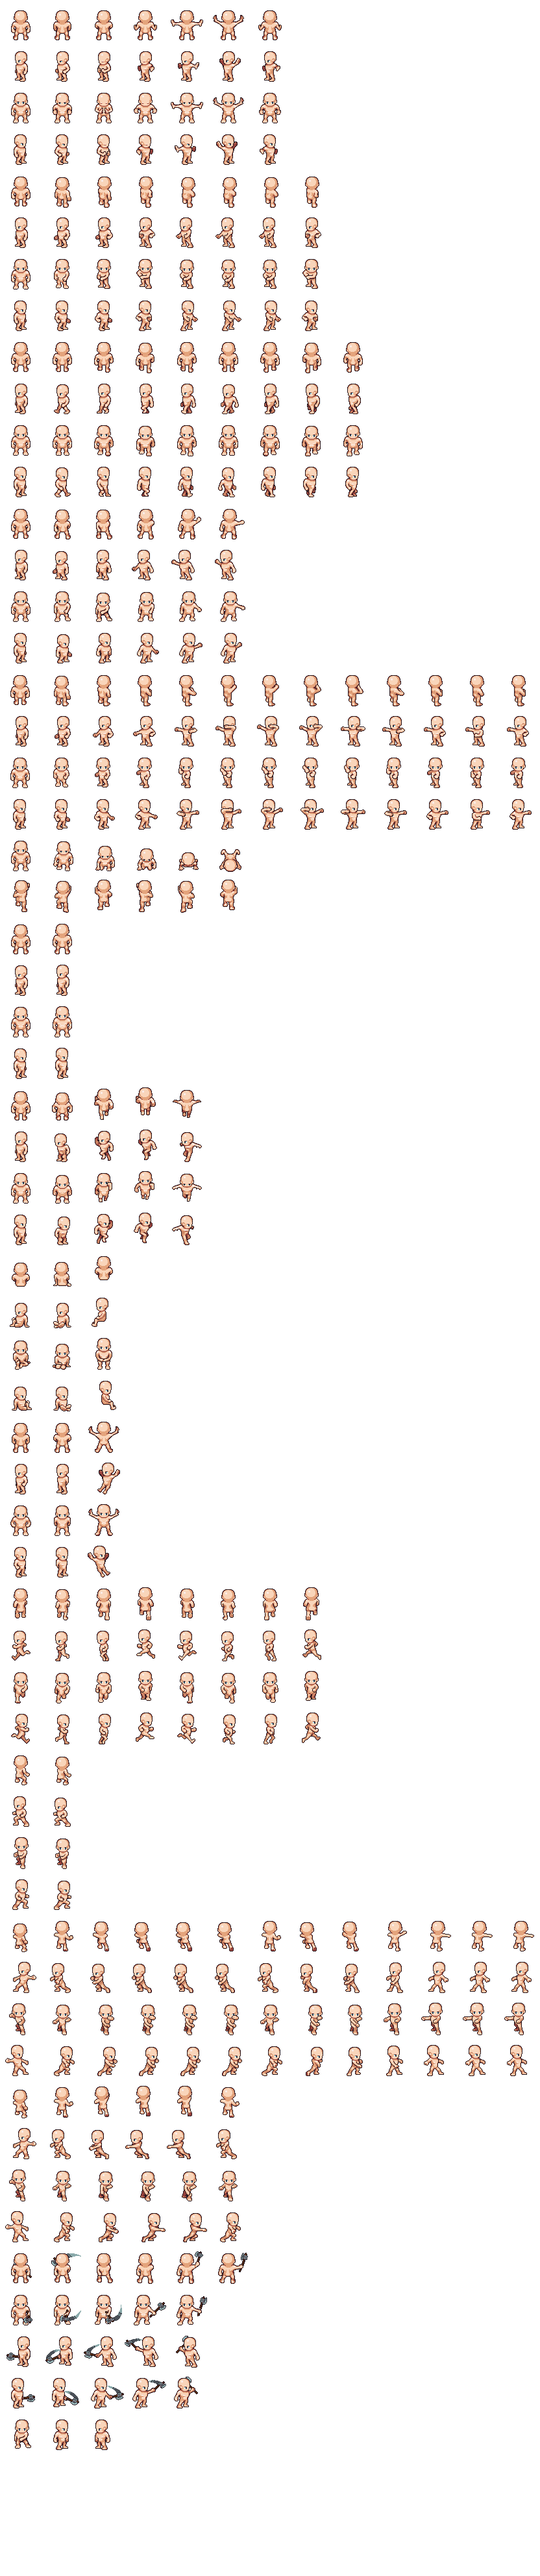
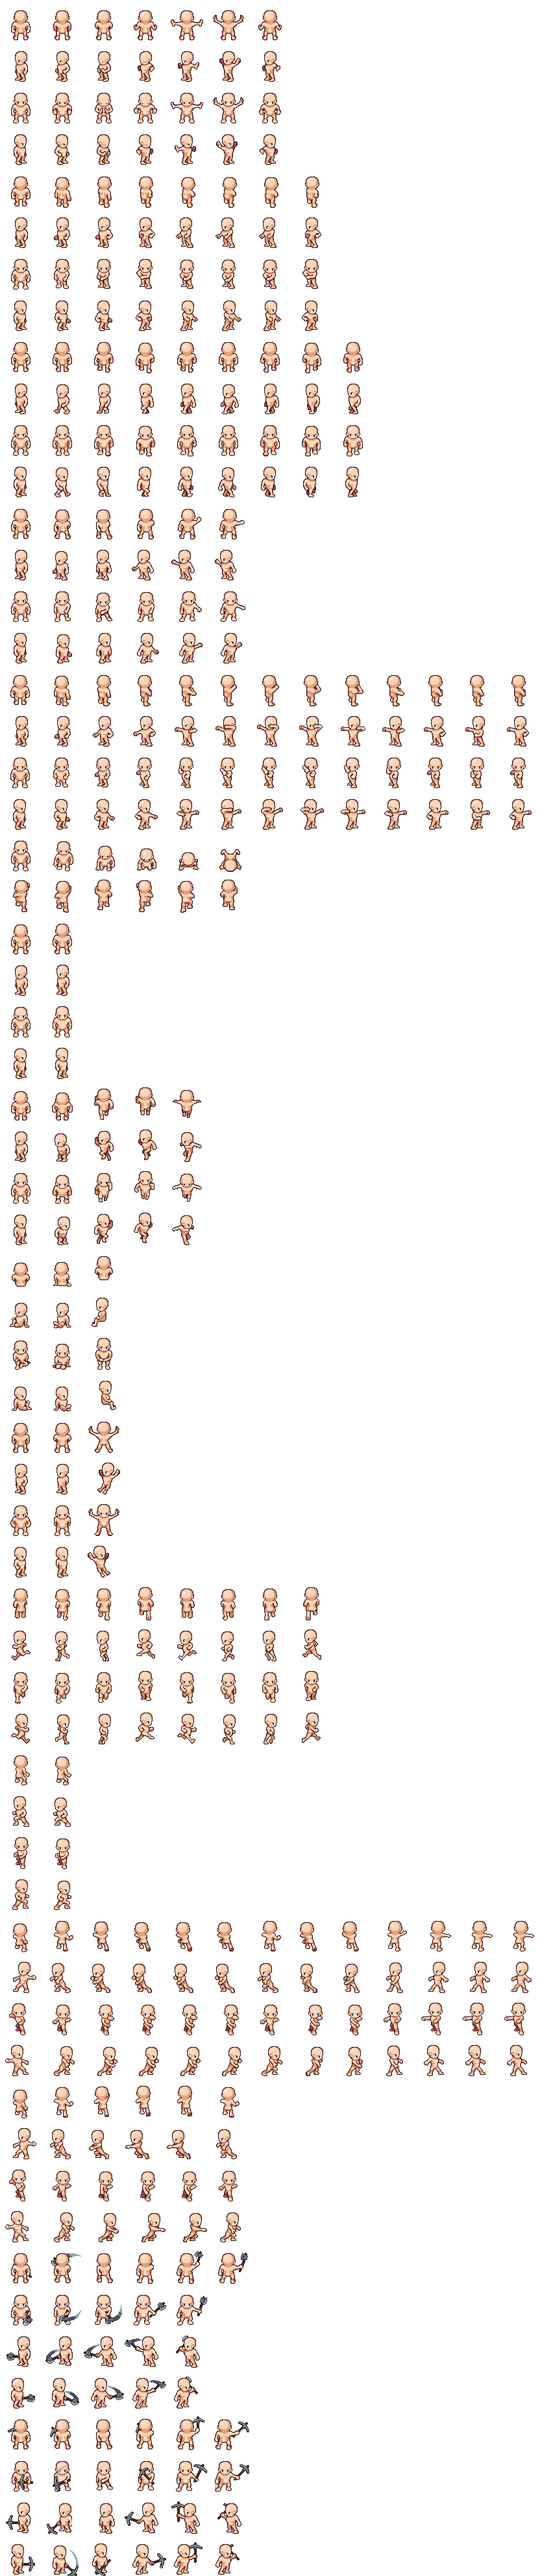
added stone resource

Changed region(s): [[0.25, 0.9375, 0.4688, 1.0], [0.0938, 0.9375, 0.2188, 1.0], [0.0, 0.9375, 0.0625, 1.0]]

diff --git a/frontend/src/entities/resources.js b/frontend/src/entities/resources.js
@@ -1,5 +1,6 @@
 // === Resource.js ===
 import Phaser from "phaser";
+import Item from "./items.js";
 
 export default class Resource extends Phaser.Physics.Arcade.Sprite {
 	constructor(scene, resource) {
@@ -15,11 +16,19 @@ export default class Resource extends Phaser.Physics.Arcade.Sprite {
 		scene.add.existing(this);
 		scene.physics.add.existing(this, true); // static body
 		this.setDepth(11);
-		this.body.setSize(40, 40);
-		this.body.setOffset(this.width - this.width / 2 - 20, 235);
 		this.hitcounter = 3;
 
+		if (resource.key === "tree") {
+			this.body.setSize(40, 20);
+			this.body.setOffset((this.width - 40) / 2, this.height - 20);
+		} else if (resource.key === "rock") {
+			this.setScale(2, 2);
+			this.body.setSize(64, 20);
+			this.body.setOffset(-16, 5);
+		}
+
 		// Label
+		/*
 		this.nameText = scene.add
 			.text(this.x, this.y - 18, this.name, {
 				fontSize: "12px",
@@ -27,6 +36,8 @@ export default class Resource extends Phaser.Physics.Arcade.Sprite {
 			})
 			.setOrigin(0.5);
 		this.nameText.setDepth(1000);
+
+		*/
 	}
 
 	setPosition(x, y) {
@@ -35,7 +46,7 @@ export default class Resource extends Phaser.Physics.Arcade.Sprite {
 		return this;
 	}
 
-	gathering() {
+	gathering_tree() {
 		const config = { delay: 0.4 };
 		this.scene.sound.play("chop", config);
 		this.scene.tweens.add({
@@ -47,13 +58,47 @@ export default class Resource extends Phaser.Physics.Arcade.Sprite {
 			onComplete: () => {
 				this.hitcounter -= 1;
 				if (this.hitcounter <= 0) {
-					this.remove();
+					this.remove_tree();
 				}
 			},
 		});
 	}
 
-	remove() {
+	gathering_rock() {
+		const config = { delay: 0.4 };
+		this.scene.sound.play("pickaxe", config);
+		this.scene.tweens.add({
+			targets: this,
+			y: this.y + 1,
+			duration: 100,
+			yoyo: true,
+			repeat: 0,
+			onComplete: () => {
+				this.hitcounter -= 1;
+				if (this.hitcounter <= 0) {
+					this.remove_rock();
+				}
+			},
+		});
+	}
+
+	spanwnItems(amount) {
+		let itemkey = "";
+		if (this.key === "tree") {
+			itemkey = "log";
+		} else if (this.key === "rock") {
+			itemkey = "stone";
+		}
+
+		this.scene.socket.emit("world:item:spawn:request", {
+			amount: amount,
+			itemkey: itemkey,
+			x: this.x,
+			y: this.y,
+		});
+	}
+
+	remove_tree() {
 		this.body.enable = false;
 		this.scene.sound.play("treefall");
 		this.scene.tweens.add({
@@ -66,12 +111,39 @@ export default class Resource extends Phaser.Physics.Arcade.Sprite {
 				this.body.enable = false;
 				this.scene.time.delayedCall(1000, () => {
 					this.scene.socket.emit("world:resources:remove", { world_resource_id: this.world_resource_id });
+					this.spanwnItems(3);
+					const config = { delay: 0.4 };
+					this.scene.sound.play("pop", config);
 				});
 			},
 		});
 	}
 
-	spanwnItems() {}
+	remove_rock() {
+		this.body.enable = false;
+
+		this.scene.tweens.add({
+			targets: this,
+			duration: 100,
+			repeat: 4,
+			yoyo: true,
+			angle: { from: -5, to: 5 },
+			ease: "Sine.inOut",
+			onComplete: () => {
+				this.breakRock();
+			},
+		});
+	}
+
+	breakRock() {
+		this.scene.sound.play("rockbreaks");
+
+		this.scene.time.delayedCall(0, () => {
+			this.scene.socket.emit("world:resources:remove", { world_resource_id: this.world_resource_id });
+			this.spanwnItems(3);
+			this.scene.sound.play("pop", { delay: 0.2 });
+		});
+	}
 
 	destroy(fromScene) {
 		if (this.nameText) {

diff --git a/frontend/src/entities/items.js b/frontend/src/entities/items.js
@@ -1,5 +1,5 @@
-import Phaser from 'phaser';
-import itemsList from '../entities/itemslist.js';
+import Phaser from "phaser";
+import itemsList from "../entities/itemslist.js";
 
 export default class Item extends Phaser.Physics.Arcade.Sprite {
 	constructor(scene, info) {
@@ -10,13 +10,13 @@ export default class Item extends Phaser.Physics.Arcade.Sprite {
 			console.warn(`Item key "${info.key}" nicht in itemslist.js gefunden.`);
 		}
 
-		super(scene, info.x, info.y, 'items', itemData?.frame ?? 0);
+		super(scene, info.x, info.y, "items", itemData?.frame ?? 0);
 
 		this.scene = scene;
 		this.world_item_id = info.id;
 		this.item_id = info.item_id;
 		this.item_key = info.key;
-		this.name = info.name ?? itemData?.name ?? 'Unknown';
+		this.name = info.name ?? itemData?.name ?? "Unknown";
 		this.quantity = info.quantity ?? 1;
 
 		scene.add.existing(this);
@@ -27,10 +27,12 @@ export default class Item extends Phaser.Physics.Arcade.Sprite {
 		this.normalizeSize(32, 32);
 
 		// Optional: kleines Label
+		/*
 		this.nameText = scene.add
 			.text(this.x, this.y - 18, this.name, { fontSize: '12px', color: '#fff' })
 			.setOrigin(0.5);
 		this.nameText.setDepth(1000);
+		*/
 	}
 
 	normalizeSize(targetWidth, targetHeight) {
@@ -39,10 +41,7 @@ export default class Item extends Phaser.Physics.Arcade.Sprite {
 		const scale = Math.min(scaleX, scaleY);
 		this.setScale(scale);
 		this.body.setSize(this.width * scale, this.height * scale);
-		this.body.setOffset(
-			(this.width - this.width * scale) / 2,
-			(this.height - this.height * scale) / 2
-		);
+		this.body.setOffset((this.width - this.width * scale) / 2, (this.height - this.height * scale) / 2);
 	}
 
 	setPosition(x, y) {

diff --git a/frontend/src/assets/utils/animations.js b/frontend/src/assets/utils/animations.js
@@ -20,10 +20,14 @@ export function registerPlayerAnimations(scene) {
 		{ key: "drop_left", row: 13, startColumn: 0, endColumn: 3, frameRate: 5, repeat: 0 },
 		{ key: "drop_up", row: 12, startColumn: 0, endColumn: 3, frameRate: 5, repeat: 0 },
 		{ key: "drop_down", row: 14, startColumn: 0, endColumn: 3, frameRate: 5, repeat: 0 },
-		{ key: "treecut_up", row: 54, startColumn: 5, endColumn: 0, frameRate: 6, repeat: 0 },
-		{ key: "treecut_down", row: 55, startColumn: 4, endColumn: 0, frameRate: 6, repeat: 0 },
-		{ key: "treecut_left", row: 56, startColumn: 4, endColumn: 0, frameRate: 6, repeat: 0 },
-		{ key: "treecut_right", row: 57, startColumn: 4, endColumn: 0, frameRate: 6, repeat: 0 },
+		{ key: "tree_up", row: 54, startColumn: 5, endColumn: 0, frameRate: 6, repeat: 0 },
+		{ key: "tree_down", row: 55, startColumn: 4, endColumn: 0, frameRate: 6, repeat: 0 },
+		{ key: "tree_left", row: 56, startColumn: 4, endColumn: 0, frameRate: 6, repeat: 0 },
+		{ key: "tree_right", row: 57, startColumn: 4, endColumn: 0, frameRate: 6, repeat: 0 },
+		{ key: "rock_up", row: 58, startColumn: 4, endColumn: 0, frameRate: 6, repeat: 0 },
+		{ key: "rock_down", row: 59, startColumn: 4, endColumn: 0, frameRate: 6, repeat: 0 },
+		{ key: "rock_left", row: 60, startColumn: 4, endColumn: 0, frameRate: 6, repeat: 0 },
+		{ key: "rock_right", row: 61, startColumn: 4, endColumn: 0, frameRate: 6, repeat: 0 },
 	];
 
 	animations.forEach((anim) => {

diff --git a/backend/database/db.js b/backend/database/db.js
@@ -1,6 +1,7 @@
 // server/database/db.js
 import mariadb from "mariadb";
 import dotenv from "dotenv";
+import Functions from "../utils/functions.js";
 dotenv.config();
 
 export const pool = mariadb.createPool({
@@ -236,6 +237,32 @@ export async function loadResourcesDefinitions() {
 		description: r.description,
 		level: Number(r.level),
 	}));
+}
+
+//Items
+
+export async function LoadItemIDbyKey(itemkey) {
+	const rows = await query("SELECT id FROM items WHERE `key` = ?;", [itemkey]);
+	if (rows.length > 0) {
+		return Number(rows[0].id);
+	}
+}
+
+export async function addWorldItembyKey(itemkey, amount, x, y, quantity = 1) {
+	for (let i = 0; i < amount; i++) {
+		const item_id = await LoadItemIDbyKey(itemkey);
+		await createWorldItem(null, item_id, x + Functions.randomFloatRange(-50, +50), y + Functions.randomFloatRange(-50, +50), quantity);
+	}
+}
+
+export async function RemoveWorldResourceById(world_resource_id) {
+	try {
+		await query("DELETE FROM world_resources WHERE id = ?", [world_resource_id]);
+		return true;
+	} catch (err) {
+		console.error("DB Fehler:", err);
+		throw err;
+	}
 }
 
 export async function loadWorldResources() {

diff --git a/frontend/src/entities/player.js b/frontend/src/entities/player.js
@@ -147,6 +147,7 @@ export default class Player extends Phaser.Physics.Arcade.Sprite {
 			return; // Szene ist schon zerstört -> nichts mehr machen
 		}
 
+		if (this.actionzoneTarget) console.log("Target :", this.actionzoneTarget.key);
 		this.actionzone.setPosition(this.x + this.actionzoneOffset.x, this.y + this.actionzoneOffset.y - 15);
 		this.setActionzoneDirection(this.actionzone, this.lastDirection);
 
@@ -216,8 +217,11 @@ export default class Player extends Phaser.Physics.Arcade.Sprite {
 	playActionAnimation(animKey, duration = 100) {
 		if (!this.actionanimstarted) {
 			this.actionanimstarted = true;
-			if (animKey === "treecut" && this.actionzoneTarget) {
-				this.actionzoneTarget.gathering();
+			if (animKey === "tree" && this.actionzoneTarget) {
+				this.actionzoneTarget.gathering_tree();
+			}
+			if (animKey === "rock" && this.actionzoneTarget) {
+				this.actionzoneTarget.gathering_rock();
 			}
 
 			this.state = "action";

diff --git a/frontend/src/assets/utils/gamesceneassetloader.js b/frontend/src/assets/utils/gamesceneassetloader.js
@@ -25,6 +25,10 @@ export function preloadAssets(scene) {
 	const treeUrl = new URL("../resources/tree.png", import.meta.url).href;
 	scene.load.image("tree", treeUrl);
 
+	// Resources
+	const RockUrl = new URL("../resources/rock.png", import.meta.url).href;
+	scene.load.image("rock", RockUrl);
+
 	const mushroomURL = new URL("../items/mushroom.png", import.meta.url).href;
 	scene.load.image("mushroom", mushroomURL, {
 		frameWidth: 32,
@@ -47,4 +51,10 @@ export function preloadAssets(scene) {
 
 	const treefalldownURL = new URL("../sounds/treefalldown.mp3", import.meta.url).href;
 	scene.load.audio("treefalldown", treefalldownURL);
+
+	const pickaxeURL = new URL("../sounds/pickaxe.mp3", import.meta.url).href;
+	scene.load.audio("pickaxe", pickaxeURL);
+
+	const rockbreaksURL = new URL("../sounds/rockbreaks.mp3", import.meta.url).href;
+	scene.load.audio("rockbreaks", rockbreaksURL);
 }

diff --git a/backend/network/gameserver.js b/backend/network/gameserver.js
@@ -8,6 +8,9 @@ import {
 	loadInventory,
 	loadResourcesDefinitions,
 	loadWorldResources,
+	addWorldItembyKey,
+	removeItemFromInventory,
+	RemoveWorldResourceById,
 } from "../database/db.js";
 
 export function initGameServer(io) {
@@ -176,7 +179,16 @@ export function initGameServer(io) {
 
 		socket.on("world:resources:remove", async ({ world_resource_id }) => {
 			delete worldResources[world_resource_id];
+			//	RemoveWorldResourceById(world_resource_id);
 			io.emit("world:resources:update", world_resource_id);
+		});
+
+		socket.on("world:item:spawn:request", async ({ amount, itemkey, x, y }) => {
+			await addWorldItembyKey(itemkey, amount, x, y);
+			worldItems.clear();
+			const items = await loadWorldItems();
+			items.forEach((it) => worldItems.set(it.id, it));
+			socket.emit("world:items:init", Array.from(worldItems.values()));
 		});
 
 		/**

diff --git a/frontend/src/scenes/gamescene.js b/frontend/src/scenes/gamescene.js
@@ -103,6 +103,7 @@ export default class GameScene extends Phaser.Scene {
 
 		// Welt-Items initial + Live-Änderungen
 		this.socket.on("world:items:init", (items) => {
+			this.itemsGroup.clear(true, true);
 			items.forEach((info) => this.spawnItem(info));
 		});
 
@@ -200,6 +201,7 @@ export default class GameScene extends Phaser.Scene {
 		const item = new Item(this, info);
 		this.itemsGroup.add(item);
 		this.itemsById[item.world_item_id] = item;
+
 		return item;
 	}
 
@@ -246,7 +248,7 @@ export default class GameScene extends Phaser.Scene {
 
 	chooseAction() {
 		if (this.nearItemId) return this.tryPickup();
-		if (this.player.actionzoneTarget != null) return this.player.playActionAnimation("treecut", 1000);
+		if (this.player.actionzoneTarget != null) return this.player.playActionAnimation(this.player.actionzoneTarget.key, 1000);
 	}
 
 	update() {

diff --git a/frontend/src/entities/itemslist.js b/frontend/src/entities/itemslist.js
@@ -8,7 +8,8 @@ const itemsList = [
 	{ key: "potion", name: "Health Potion", frame: 2 },
 	{ key: "sword", name: "Sword", frame: 3 },
 	{ key: "shield", name: "Shield", frame: 4 },
-	{ key: "log", name: "Log", frame: 0 },
+	{ key: "log", name: "Log", frame: 3 },
+	{ key: "stone", name: "Stone", frame: 11 },
 	// ...weitere Items hier hinzufügen
 ];
 

diff --git a/frontend/src/gameconfig.js b/frontend/src/gameconfig.js
@@ -17,7 +17,7 @@ export const gameConfig = {
 		default: "arcade",
 		arcade: {
 			gravity: { y: 0, x: 0 },
-			debug: true,
+			debug: false,
 		},
 	},
 };

diff --git a/backend/utils/functions.js b/backend/utils/functions.js
@@ -1,0 +1,5 @@
+export default class Functions {
+	static randomFloatRange(min, max) {
+		return Math.random() * (max - min) + min;
+	}
+}
